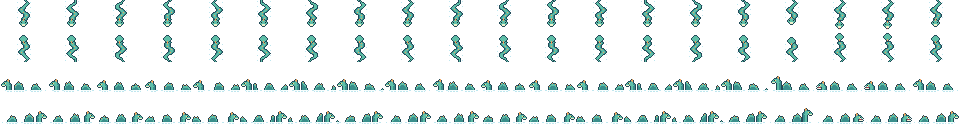
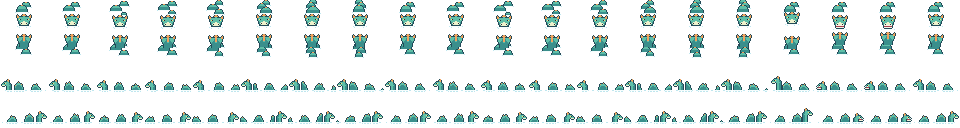
docs(design): wyrm seen head-on and from behind: the head out of the
Wyrm seen head-on and from behind: the head out of the water, coils breaking the surface behind it

diff --git a/design/enemies/roster/wyrm.py b/design/enemies/roster/wyrm.py
@@ -2,7 +2,8 @@
 
 Only the heads are drawn by hand. The body is computed from a phase, 8 frames to a cycle, so it moves as smoothly as
 the player: side-on, a wave whose crests rise out of the water (with a spine along each and foam where it enters);
-from above, a thick ribbon swimming, with a fin down its back.
+coming at you or swimming away, the head stands out of the water and the coils break the surface behind it one
+after another, sliding from side to side and shrinking toward the tail.
   the lunge   the head rears up and back (held: the warning), then snaps forward with its jaws open, holds, and returns
 """
 import math
@@ -47,17 +48,48 @@ otctcogggGo.
 .....oggGGo.
 """)
 BOB = [0, 0, 1, 1, 1, 0, 0, 0]
-FACE = G("""
-...ofo...
-..ogfgo..
-.ogggggo.
-ogkgggkgo
-ogggggggo
-.ogcccgo.
-..occco..
-...ooo...
+
+
+def both(text):
+    """A face is symmetric: draw the left half, get the whole."""
+    return [r + r[::-1] for r in G(text)]
+
+
+FACE = both("""
+.o....of
+ofo..off
+offoooog
+offggggg
+.ogggggg
+.ogykggg
+.ogggggg
+..oggggc
+..oGgccc
+..oGckcc
+...oGccc
+...ooooo
 """)
-NAPE = [r.replace("k", "g").replace("c", "g") for r in FACE[::-1]]      # the back of the head, pointing up the screen
+FACE_OPEN = FACE[:10] + both("""
+...otttt
+...ommmm
+...otttt
+....oooo
+""")
+NAPE = both("""
+.o....of
+ofo..off
+offoooof
+offggggf
+.oggggGf
+.oggggGf
+.ogggGGf
+..ogGGGg
+..oGGGGG
+...oGGGG
+...oGGGG
+...oGGGG
+...oGGGG
+""")
 
 
 def side(i, head=HEAD, hx=1, hy=0):
@@ -90,30 +122,48 @@ def side(i, head=HEAD, hx=1, hy=0):
     return ["".join(r) for r in g]
 
 
-def above(i, down, pull=0, jaws=False):
-    """Seen from above, swimming up the screen (or down, with its face showing)."""
+def hump(w, h):
+    """One coil of the body breaking the surface, seen end-on: a rounded mound with a spine, standing in its own foam."""
+    half = w // 2
+    rows = [["."] * (w + 4) for _ in range(h + 2)]
+    for r in range(h):
+        reach = max(1, round(half * math.sqrt(1 - ((h - 1 - r) / h) ** 2)))
+        for x in range(half + 2 - reach, half + 2 + reach):
+            rows[1 + r][x] = "g" if r < max(1, h // 2) else "G"
+    g = [list(r) for r in outline(["".join(r) for r in rows])]
+    if h >= 3:
+        g[0][half + 1] = g[0][half + 2] = "f"
+    g[h + 1] = list("W" + "w" * (w + 2) + "W")                    # the water line: foam under it, a ripple either side
+    return ["".join(r) for r in g]
+
+
+def above(i, down, lift=0, head=None):
+    """Coming at you (down) or swimming away (up): the head stands out of the water and the coils of the body break the
+    surface one after another behind it, sliding from side to side and shrinking toward the tail as the wave runs down."""
     i %= 8
-    w, n = 16, 20
-    fill = [["."] * w for _ in range(n + 10)]
-    for r in range(n):
-        t = r / n
-        cx = 8 + round(3 * min(1, r / 5) * math.sin(2 * math.pi * r / 13 - 2 * math.pi * i / 8))
-        half = 2 if t < .6 else 1 if t < .85 else 0
-        for x in range(cx - half, cx + half + 1):
-            fill[10 + r][x] = "G" if half == 2 and abs(x - cx) == 2 else "g"
-        if half == 2 and r % 3 == 1:
-            fill[10 + r][cx] = "f"
-    g = outline(["".join(r) for r in fill])
-    g = over(g, NAPE if not down else FACE[::-1], 3, 3 + pull)       # (drawn head-up; the whole picture is flipped for "down")
-    if jaws and down:
-        g = over(g, ["ttt", "omo"], 6, 2 + pull)
-    for k in range(4):                                               # a little wake beside the bends
-        y = 12 + k * 5 + (i % 4)
-        if y < n + 9:
-            for x in (1, 14):
-                if g[y][x] == ".":
-                    g = over(g, ["W"], x, y)
-    return g[::-1] if down else g
+    w, h = 26, 30
+    g = ["." * w] * h
+    head_y = (14 if down else 2) + BOB[i] + lift
+    coils = []
+    for j in range(-1, 4):
+        s = j + i / 8                                              # how far down the body this crest is, in coils
+        if not 0.15 < s < 3.0:
+            continue
+        size = min(1, s / 0.7) * (1 - 0.16 * s)                    # it rises out of the water behind the head, then tapers
+        hh, ww = round(6.6 * size), 2 * round(6.6 * size * (1 - 0.06 * s))
+        if hh < 1 or ww < 4:
+            continue
+        cx = w // 2 + round(4 * math.sin(math.pi * s + 0.6))
+        base = round(16 - 4.3 * s) if down else round(13 + 4.3 * s)
+        coils.append((base, cx, hump(ww, hh)))
+    for base, cx, m in sorted(coils, key=lambda c: c[0]):          # far ones first, near ones over them
+        g = over(g, m, cx - len(m[0]) // 2, base - len(m) + 1)
+    stamp = head or (FACE if down else NAPE)
+    g = over(g, stamp, (w - 16) // 2, head_y)
+    if down:                                                        # the chin in its foam
+        y = head_y + len(stamp)
+        g = over(g, ["W" + ("w" * 12 if i % 2 else "ww.wwwwww.ww") + "W", ("..W......W.." if i % 4 < 2 else ".W........W.")], (w - 14) // 2, y)
+    return g
 
 
 def frames(make_idle, windup, strike):
@@ -130,6 +180,6 @@ ENEMY = dict(
               "comes into the shallows, so the shore is safe.",
     stats=dict(hp=60, damage=18, speed="fast in deep water", drops="scales, a great fish"),
     dirs={"left": frames(side, side(0, hx=3, hy=-3), side(0, head=HEAD_OPEN, hx=0, hy=2)),
-          "down": frames(lambda i: above(i, True), above(0, True, pull=2), above(0, True, pull=-2, jaws=True)),
-          "up": frames(lambda i: above(i, False), above(0, False, pull=2), above(0, False, pull=-2))},
+          "down": frames(lambda i: above(i, True), above(0, True, lift=-2), above(0, True, lift=1, head=FACE_OPEN)),
+          "up": frames(lambda i: above(i, False), above(0, False, lift=2), above(0, False, lift=-2))},
 )
